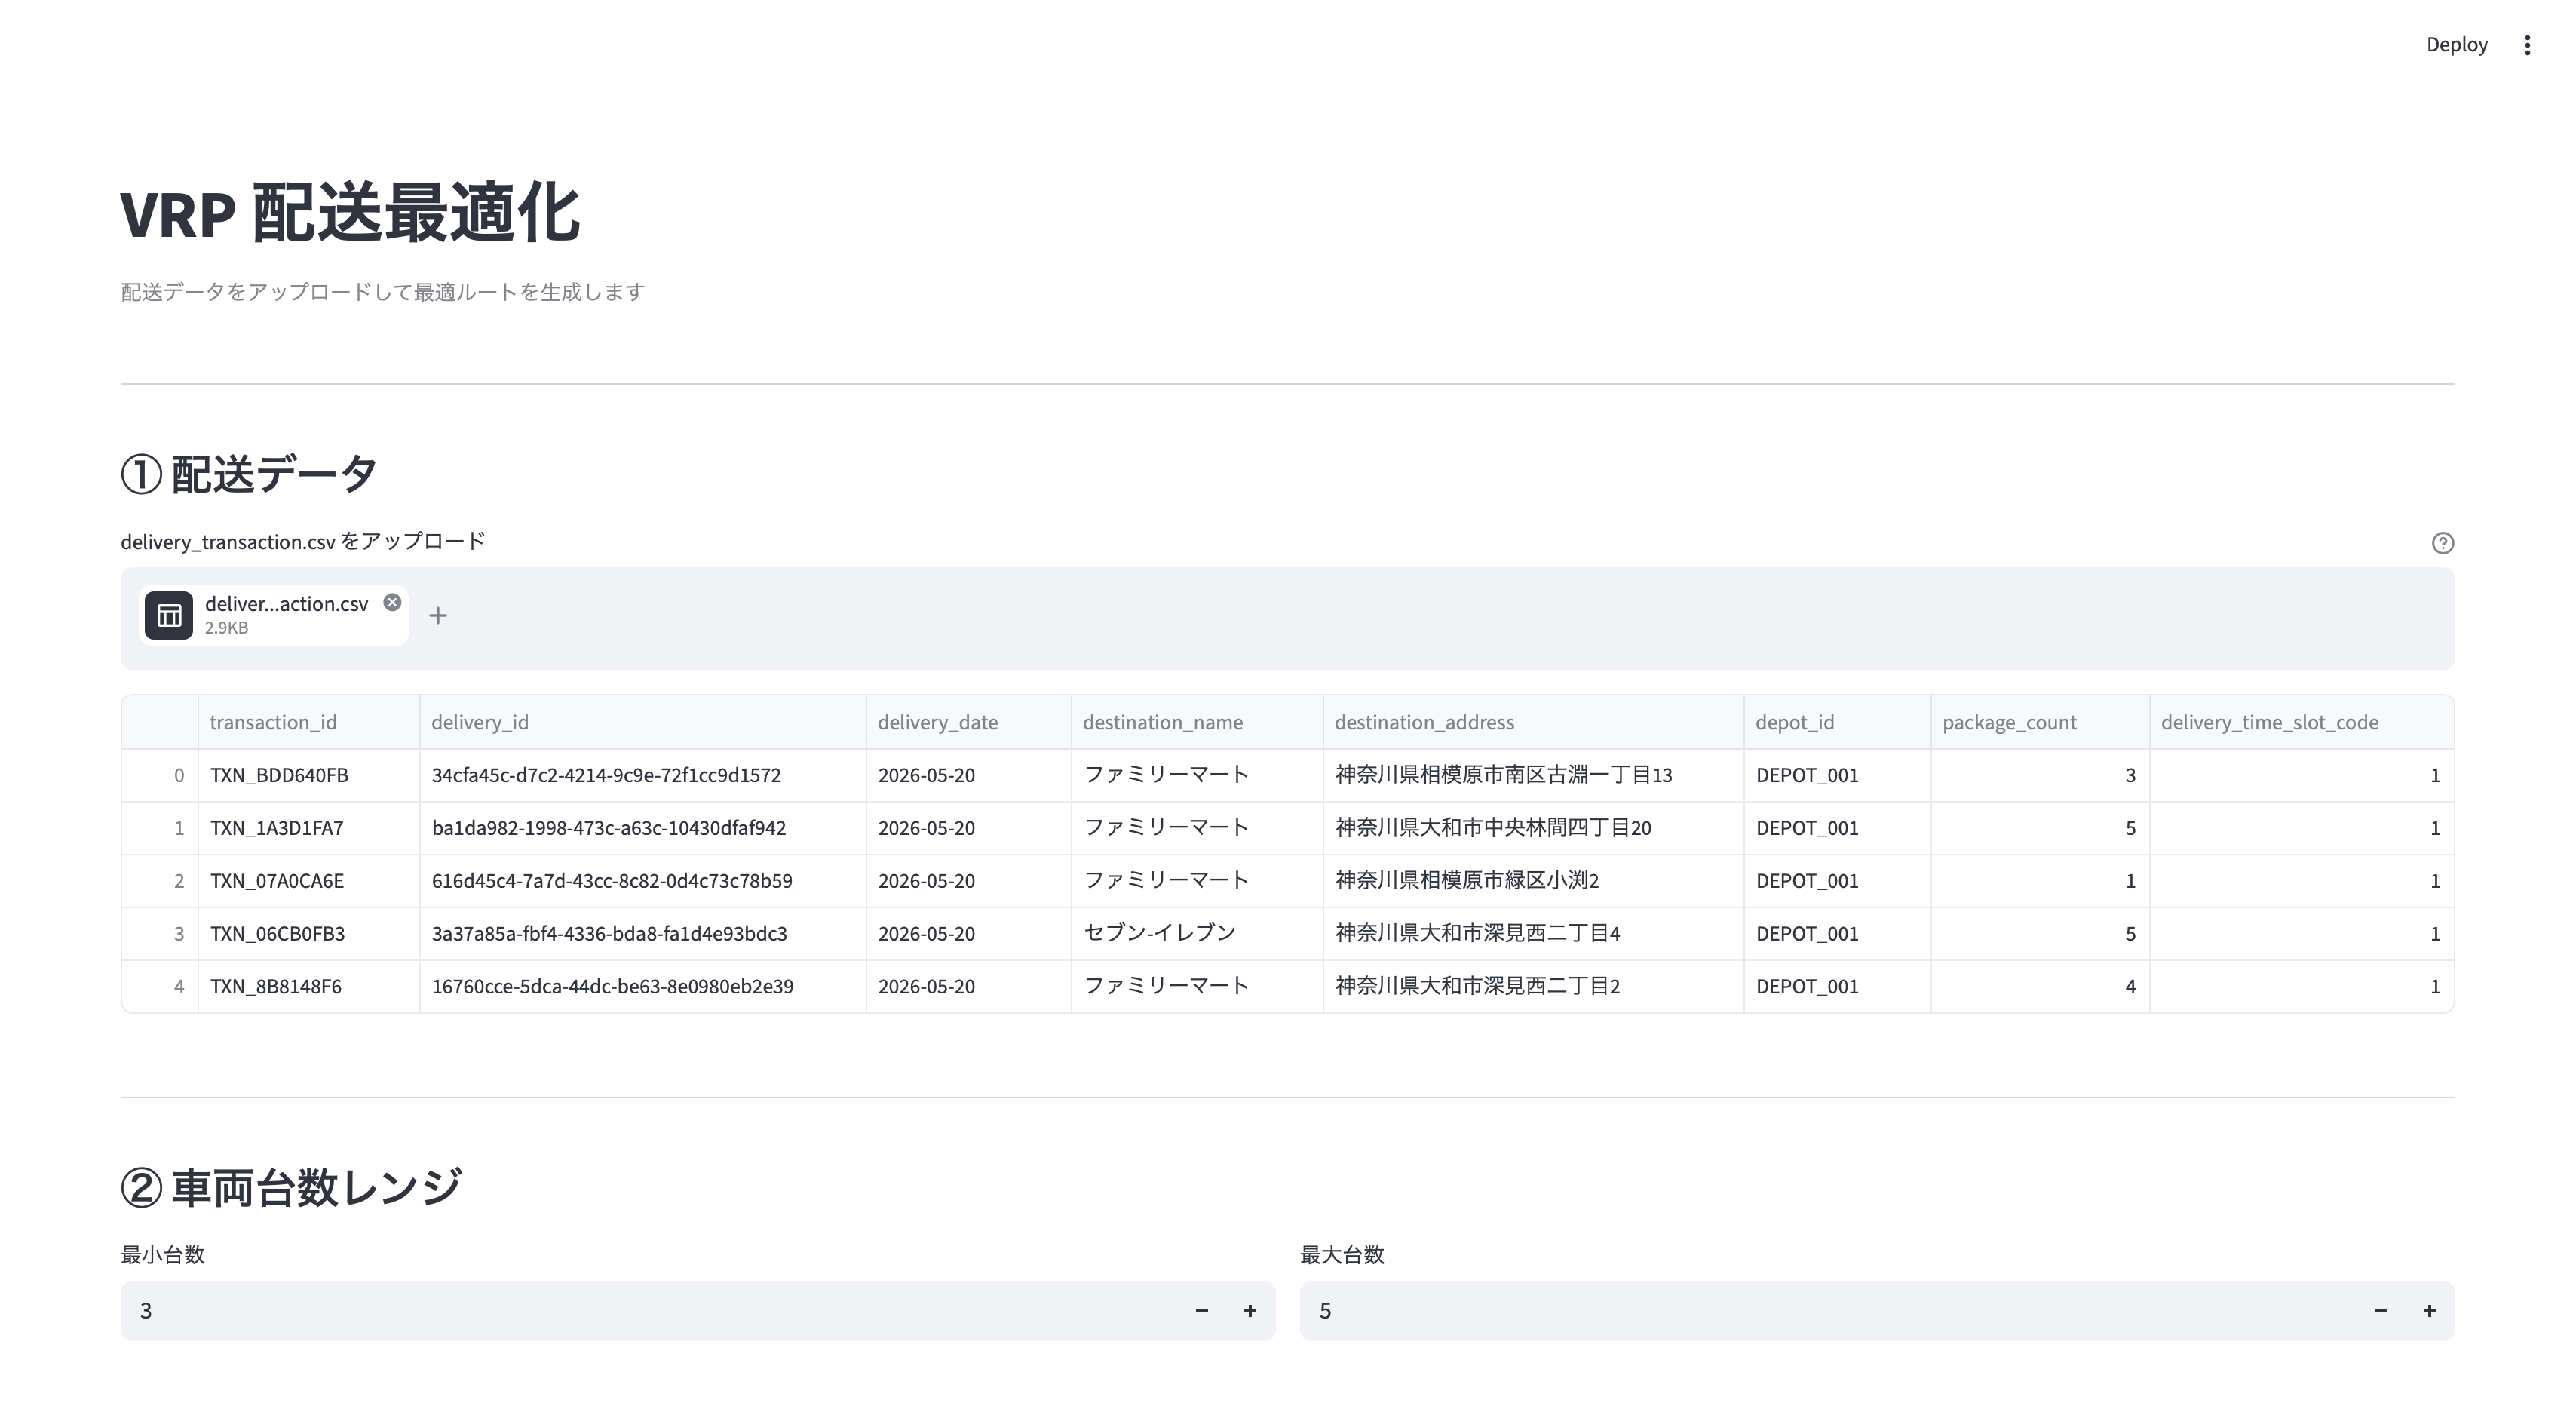
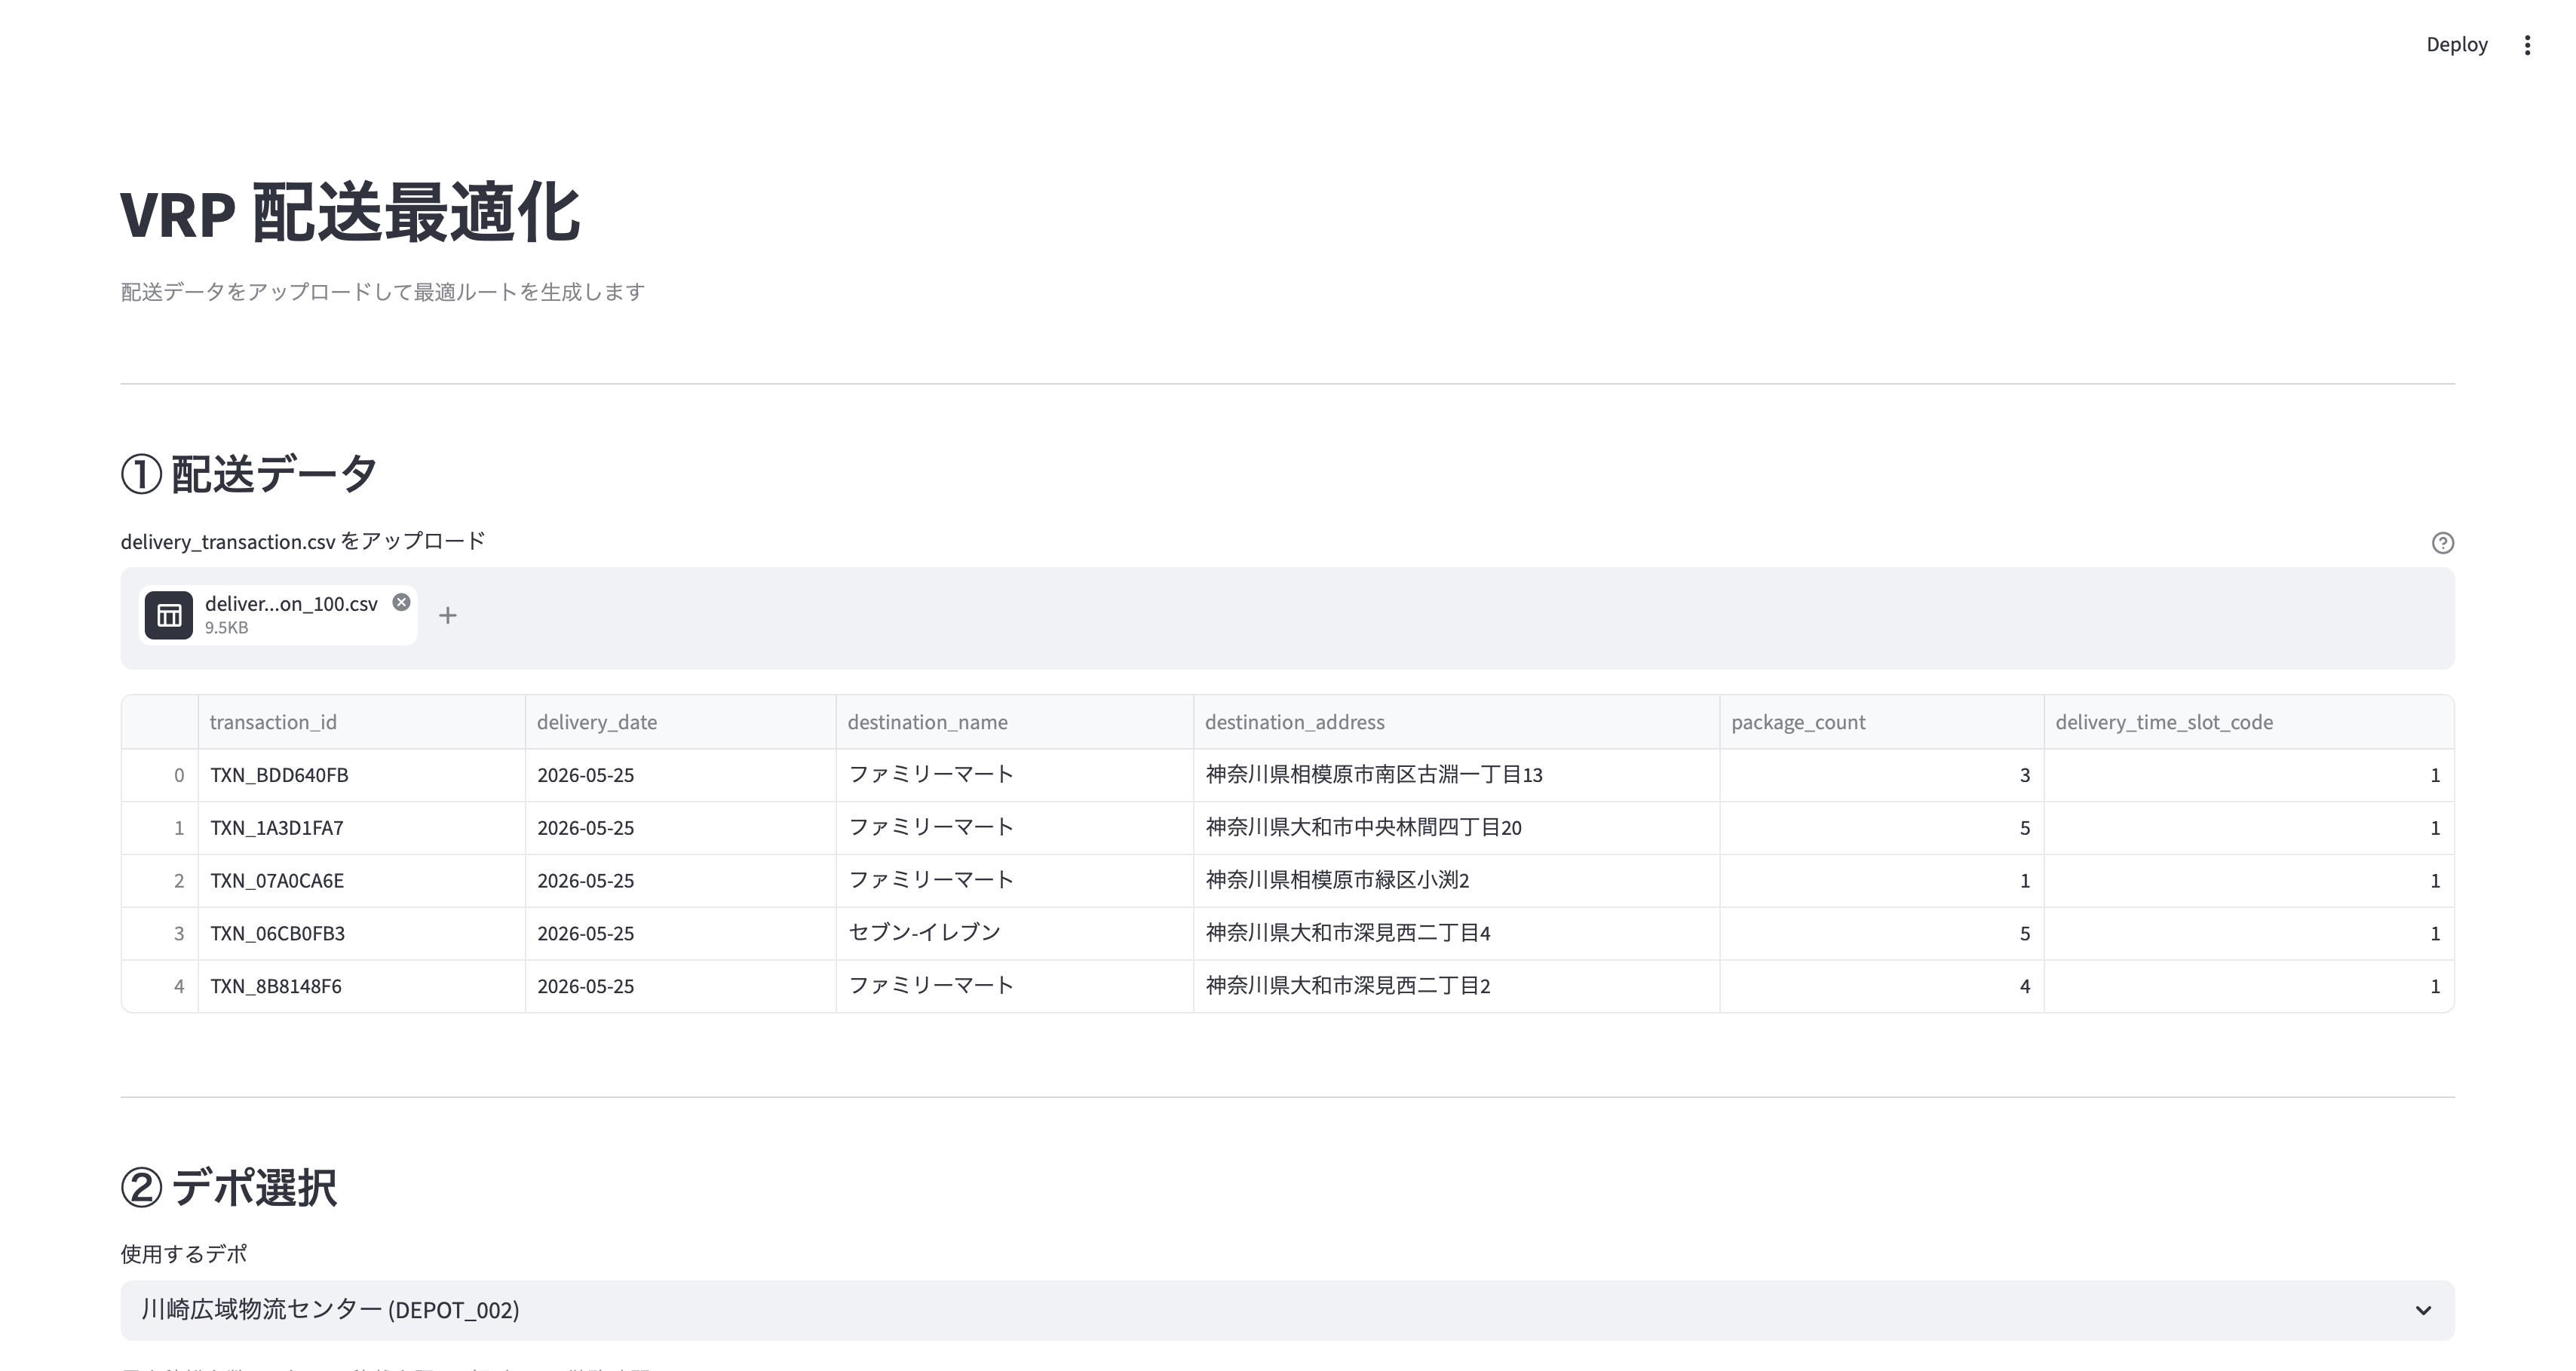
Add route summary CSV output for planning results
This commit introduces a new CSV file containing the route summary for the planning executed on 2026-05-08. The file includes details such as strategy, strategy name, solve status, vehicles used, total distance in kilometers, and total cost in yen for each strategy evaluated.

diff --git a/src/vrp_optimization/solver/vrp.py b/src/vrp_optimization/solver/vrp.py
@@ -40,16 +40,22 @@ MASTER_PATH = _ROOT / "data" / "processed" / "delivery_destination_master.json"
 DEPOT_PATH = _ROOT / "data" / "raw" / "depot_master.csv"
 OUTPUTS_DIR = _ROOT / "outputs"
 
-SOLVE_TIME_LIMIT_SEC = 30
-WORK_START_HOUR = 9   # 09:00 を 0 分の基準とする
-WORK_MINUTES = 540    # 09:00〜18:00 = 540 分
+SOLVE_TIME_LIMIT_SEC = 120
 
-# 時間帯コードごとの時間窓（分）: work_start からのオフセット
-TIME_WINDOWS = {
-    1: (0, 240),    # 午前: 09:00〜13:00
-    2: (240, 540),  # 午後: 13:00〜18:00
-    3: (0, 540),    # 時間指定なし
-}
+# 午前/午後の絶対時刻境界（分・勤務時間に依存しない固定値）
+_NOON_MIN = 13 * 60  # 13:00 を午前/午後の境界とする
+
+
+def _build_time_windows(work_start_hour: int, work_minutes: int) -> dict:
+    """work_start からの相対オフセット（分）で時間帯窓を返す。
+    午前: work_start〜13:00 / 午後: 13:00〜work_end / 指定なし: 全時間
+    """
+    ws = work_start_hour * 60
+    return {
+        1: (0, _NOON_MIN - ws),           # 午前: work_start〜13:00
+        2: (_NOON_MIN - ws, work_minutes), # 午後: 13:00〜work_end
+        3: (0, work_minutes),              # 指定なし
+    }
 
 
 def _latest_plan_id() -> str:
@@ -59,13 +65,21 @@ def _latest_plan_id() -> str:
     return plans[0].name
 
 
-def _load_data(plan_id: str) -> dict:
+def _load_data(plan_id: str, depot_id: str | None = None) -> dict:
     """VRP に必要なデータを収集して辞書で返す。"""
     od_path = OUTPUTS_DIR / plan_id / "distance" / "od_matrix.csv"
     od_df = pd.read_csv(od_path)
 
     depot_df = pd.read_csv(DEPOT_PATH)
-    depot_row = depot_df.iloc[0]
+    if depot_id:
+        depot_row = depot_df[depot_df["depot_id"] == depot_id].iloc[0]
+    else:
+        depot_row = depot_df.iloc[0]
+
+    work_start_hour = int(str(depot_row["work_start_time"]).split(":")[0])
+    work_end_hour   = int(str(depot_row["work_end_time"]).split(":")[0])
+    work_minutes    = (work_end_hour - work_start_hour) * 60
+    time_windows_map = _build_time_windows(work_start_hour, work_minutes)
 
     with open(MASTER_PATH, encoding="utf-8") as f:
         master_records = json.load(f)
@@ -82,8 +96,8 @@ def _load_data(plan_id: str) -> dict:
         rows = txn_df[txn_df["delivery_id"] == did]
         demands_by_id[did] = int(rows["package_count"].sum())
         codes = rows["delivery_time_slot_code"].unique().tolist()
-        starts = [TIME_WINDOWS[c][0] for c in codes]
-        ends = [TIME_WINDOWS[c][1] for c in codes]
+        starts = [time_windows_map[c][0] for c in codes]
+        ends = [time_windows_map[c][1] for c in codes]
         windows_by_id[did] = (min(starts), max(ends))
 
     # ロケーション順: [depot, dest1, dest2, ...]
@@ -102,7 +116,7 @@ def _load_data(plan_id: str) -> dict:
     time_matrix = [[time_lookup.get((loc_ids[i], loc_ids[j]), 0) for j in range(n)] for i in range(n)]
 
     demands = [0] + [demands_by_id.get(did, 0) for did, _ in locations[1:]]
-    time_windows = [(0, WORK_MINUTES)] + [windows_by_id.get(did, (0, WORK_MINUTES)) for did, _ in locations[1:]]
+    time_windows = [(0, work_minutes)] + [windows_by_id.get(did, (0, work_minutes)) for did, _ in locations[1:]]
 
     return {
         "locations": locations,
@@ -115,16 +129,19 @@ def _load_data(plan_id: str) -> dict:
         "dist_unit_cost_yen_per_km": float(depot_row["distance_unit_cost"]),
         "vehicle_count_min": int(depot_row["vehicle_count_min"]),
         "vehicle_count_max": int(depot_row["vehicle_count_max"]),
+        "work_start_hour": work_start_hour,
+        "work_minutes": work_minutes,
     }
 
 
-def _solve_for_k(data: dict, k: int) -> dict:
+def _solve_for_k(data: dict, k: int, solve_time_limit: int = SOLVE_TIME_LIMIT_SEC) -> dict:
     """k 台で VRP を OR-Tools CP-SAT で解いて結果辞書を返す。"""
     n = len(data["locations"])
     dist_matrix = data["dist_matrix"]
     time_matrix = data["time_matrix"]
     demands = data["demands"]
     time_windows = data["time_windows"]
+    work_minutes = data["work_minutes"]
 
     model = cp_model.CpModel()
 
@@ -164,7 +181,7 @@ def _solve_for_k(data: dict, k: int) -> dict:
 
     # 到着時刻変数
     arrival = {
-        (v, i): model.new_int_var(0, WORK_MINUTES, f"t_{v}_{i}")
+        (v, i): model.new_int_var(0, work_minutes, f"t_{v}_{i}")
         for v in range(k) for i in range(n)
     }
     for v in range(k):
@@ -190,7 +207,7 @@ def _solve_for_k(data: dict, k: int) -> dict:
     for v in range(k):
         for i in range(1, n):
             model.add(
-                arrival[v, i] + time_matrix[i][0] <= WORK_MINUTES
+                arrival[v, i] + time_matrix[i][0] <= work_minutes
             ).only_enforce_if(arc[v, i, 0])
 
     # 使用台数を目的関数に含める: vehicle_active[v] = 1 iff v が 1 件以上訪問
@@ -212,7 +229,7 @@ def _solve_for_k(data: dict, k: int) -> dict:
     )
 
     solver = cp_model.CpSolver()
-    solver.parameters.max_time_in_seconds = SOLVE_TIME_LIMIT_SEC
+    solver.parameters.max_time_in_seconds = solve_time_limit
     solver.parameters.log_search_progress = False
     solver.parameters.num_search_workers = 1  # macOS + Python 3.13 のスレッド問題を回避
 
@@ -292,7 +309,7 @@ def _build_output(data: dict, results: list[dict]) -> tuple[pd.DataFrame, pd.Dat
                     "location_id": loc_id,
                     "address": label,
                     "arrival_min": stop["arrival_min"],
-                    "arrival_time": f"{WORK_START_HOUR + stop['arrival_min'] // 60:02d}:{stop['arrival_min'] % 60:02d}",
+                    "arrival_time": f"{data['work_start_hour'] + stop['arrival_min'] // 60:02d}:{stop['arrival_min'] % 60:02d}",
                     "package_count": data["demands"][node],
                 })
 
@@ -303,13 +320,15 @@ def main(
     plan_id: str | None = None,
     v_min: int | None = None,
     v_max: int | None = None,
+    depot_id: str | None = None,
+    solve_time_limit: int = SOLVE_TIME_LIMIT_SEC,
     progress_callback=None,
 ) -> None:
     plan_id = plan_id or _latest_plan_id()
     print(f"=== VRP ソルバー実行 ===")
     print(f"plan_id: {plan_id}")
 
-    data = _load_data(plan_id)
+    data = _load_data(plan_id, depot_id=depot_id)
     if v_min is not None:
         data["vehicle_count_min"] = v_min
     if v_max is not None:
@@ -330,7 +349,7 @@ def main(
         if progress_callback:
             progress_callback(k, k_done, k_total)
         print(f"\n  [{k} 台] 最適化中...")
-        res = _solve_for_k(data, k)
+        res = _solve_for_k(data, k, solve_time_limit=solve_time_limit)
         results.append(res)
         if res["status"] in ("OPTIMAL", "FEASIBLE"):
             print(f"  [{k} 台] 完了 ({res['status']}): 走行距離={res['total_dist_km']}km / コスト={res['total_cost_yen']:,.0f}円")
@@ -338,6 +357,10 @@ def main(
             print(f"  [{k} 台] 解なし ({res['status']})")
             if res["status"] == "INFEASIBLE":
                 print(f"  → INFEASIBLE のためこれ以下の台数の探索を打ち切ります")
+                break
+            if k == k_max:
+                print(f"  → 最大台数 {k_max} 台で解なし ({res['status']}) のため探索を打ち切ります")
+                print(f"  → 解決策: ソルバー探索時間を延長するか、デポマスタの最大台数を増やしてください")
                 break
 
     summary_df, detail_df = _build_output(data, results)